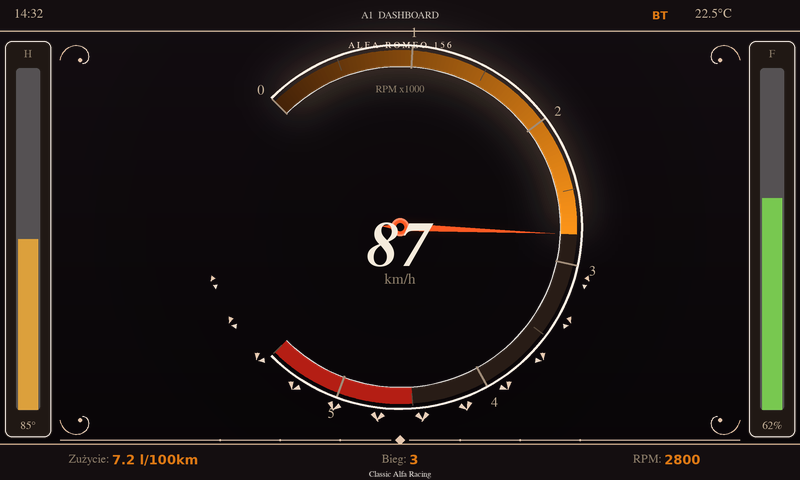
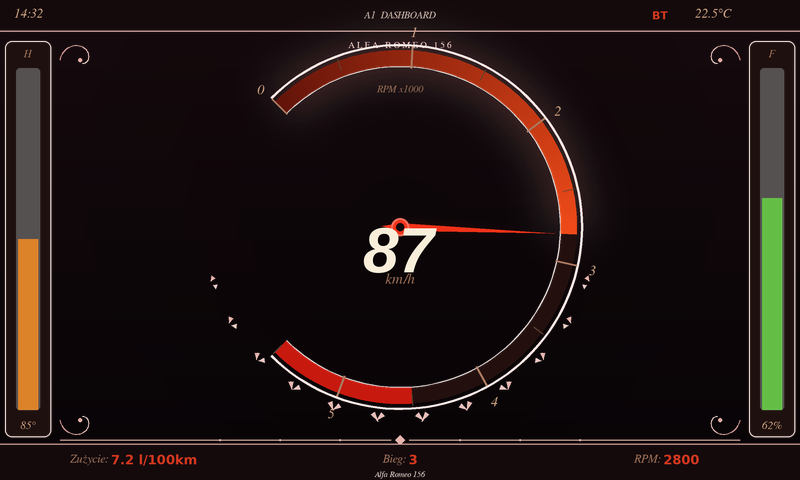
Redesign Classic Alfa theme to match real 156 pre-facelift interior
- Ruby red/orange accents matching 156 backlit dial illumination
- Deep warm black background blending with dashboard plastics
- Cream text tones complementing yellow leather seats + wood trim
- Italic serif/sans fonts for authentic Alfa Romeo typography
- Added italic font paths (FreeSerifItalic, LiberationSans-*Italic)
- Generator now supports theme filtering: python generate_mockups.py classic_alfa
- Theme renamed to "Alfa Romeo 156"

https://claude.ai/code/session_01B9J8YMpYEF83zrg4g5iuUp

diff --git a/tools/generate_mockups.py b/tools/generate_mockups.py
@@ -20,6 +20,9 @@ FONT_PATHS = {
     "bold": "/usr/share/fonts/truetype/dejavu/DejaVuSans-Bold.ttf",
     "serif": "/usr/share/fonts/truetype/freefont/FreeSerif.ttf",
     "serif_bold": "/usr/share/fonts/truetype/freefont/FreeSerifBoldItalic.ttf",
+    "serif_italic": "/usr/share/fonts/truetype/freefont/FreeSerifItalic.ttf",
+    "sans_italic": "/usr/share/fonts/truetype/liberation/LiberationSans-Italic.ttf",
+    "sans_bold_italic": "/usr/share/fonts/truetype/liberation/LiberationSans-BoldItalic.ttf",
     "light": "/usr/share/fonts/truetype/liberation/LiberationSans-Regular.ttf",
 }
 
@@ -815,19 +818,27 @@ class Theme:
 
 
 CLASSIC_ALFA = Theme(
-    "classic_alfa", "Classic Alfa Racing",
-    bg=(14, 10, 12), bg_gradient_top=(20, 14, 18), bg_gradient_bottom=(8, 5, 7),
-    accent=(220, 120, 20), accent_soft=(180, 100, 30), accent_glow=(255, 140, 30),
-    text=(245, 235, 220), text_dim=(140, 125, 105), text_mid=(200, 180, 155),
-    danger=(220, 40, 30), ok=(80, 200, 90), warning=(255, 200, 0),
-    gauge_bg=(40, 28, 22), gauge_fg=(220, 120, 20),
-    gauge_needle=(255, 90, 35), gauge_tick=(160, 140, 120), gauge_tick_dim=(90, 75, 60),
-    redzone=(180, 30, 20), arc_start=(70, 35, 8), arc_end=(255, 150, 25),
-    status_bg=(20, 14, 16), bottom_bg=(20, 14, 16),
-    side_bg=(32, 24, 20), side_cold=(80, 160, 220), side_warm=(220, 160, 60),
-    side_hot=(255, 80, 30), side_fuel_ok=(120, 200, 80), side_fuel_low=(255, 80, 30),
-    badge_circle=(200, 180, 160), badge_cross=(200, 40, 30),
-    font_variant="serif", font_value="serif_bold", ornament_style="classical",
+    "classic_alfa", "Alfa Romeo 156",
+    # Deep warm black matching 156 dashboard plastic
+    bg=(16, 8, 10), bg_gradient_top=(22, 10, 14), bg_gradient_bottom=(8, 4, 6),
+    # Ruby / orange-red matching 156 backlit dials
+    accent=(210, 55, 30), accent_soft=(180, 45, 25), accent_glow=(240, 70, 35),
+    # Warm cream text complementing yellow leather + wood trim
+    text=(248, 238, 218), text_dim=(155, 110, 85), text_mid=(210, 165, 130),
+    # Status colors
+    danger=(230, 35, 25), ok=(90, 190, 80), warning=(245, 190, 30),
+    # Gauge colours — deep ruby arc like the real 156 dials
+    gauge_bg=(35, 16, 14), gauge_fg=(210, 55, 30),
+    gauge_needle=(240, 50, 25), gauge_tick=(170, 120, 95), gauge_tick_dim=(95, 65, 50),
+    redzone=(200, 25, 15), arc_start=(100, 20, 10), arc_end=(240, 75, 25),
+    # Chrome / bars — very dark, warm
+    status_bg=(20, 10, 12), bottom_bg=(20, 10, 12),
+    side_bg=(30, 16, 14), side_cold=(70, 140, 200), side_warm=(220, 130, 40),
+    side_hot=(240, 55, 25), side_fuel_ok=(100, 190, 70), side_fuel_low=(240, 55, 25),
+    # Alfa badge
+    badge_circle=(200, 170, 145), badge_cross=(210, 35, 25),
+    # Italic fonts — Alfa Romeo style
+    font_variant="serif_italic", font_value="sans_bold_italic", ornament_style="classical",
 )
 
 MODERN_DARK = Theme(
@@ -876,10 +887,18 @@ ALL_SCREENS = [
 
 
 def main():
+    import sys
     os.makedirs(OUTPUT_DIR, exist_ok=True)
-    total = len(ALL_THEMES) * len(ALL_SCREENS)
+
+    # Allow filtering: python generate_mockups.py classic_alfa
+    filter_theme = sys.argv[1] if len(sys.argv) > 1 else None
+    themes = [t for t in ALL_THEMES if not filter_theme or t.name == filter_theme]
+    if not themes:
+        themes = ALL_THEMES
+
+    total = len(themes) * len(ALL_SCREENS)
     n = 0
-    for theme in ALL_THEMES:
+    for theme in themes:
         for screen_id, render_fn in ALL_SCREENS:
             n += 1
             label = f"[{n}/{total}] {theme.display_name} / {screen_id}"
